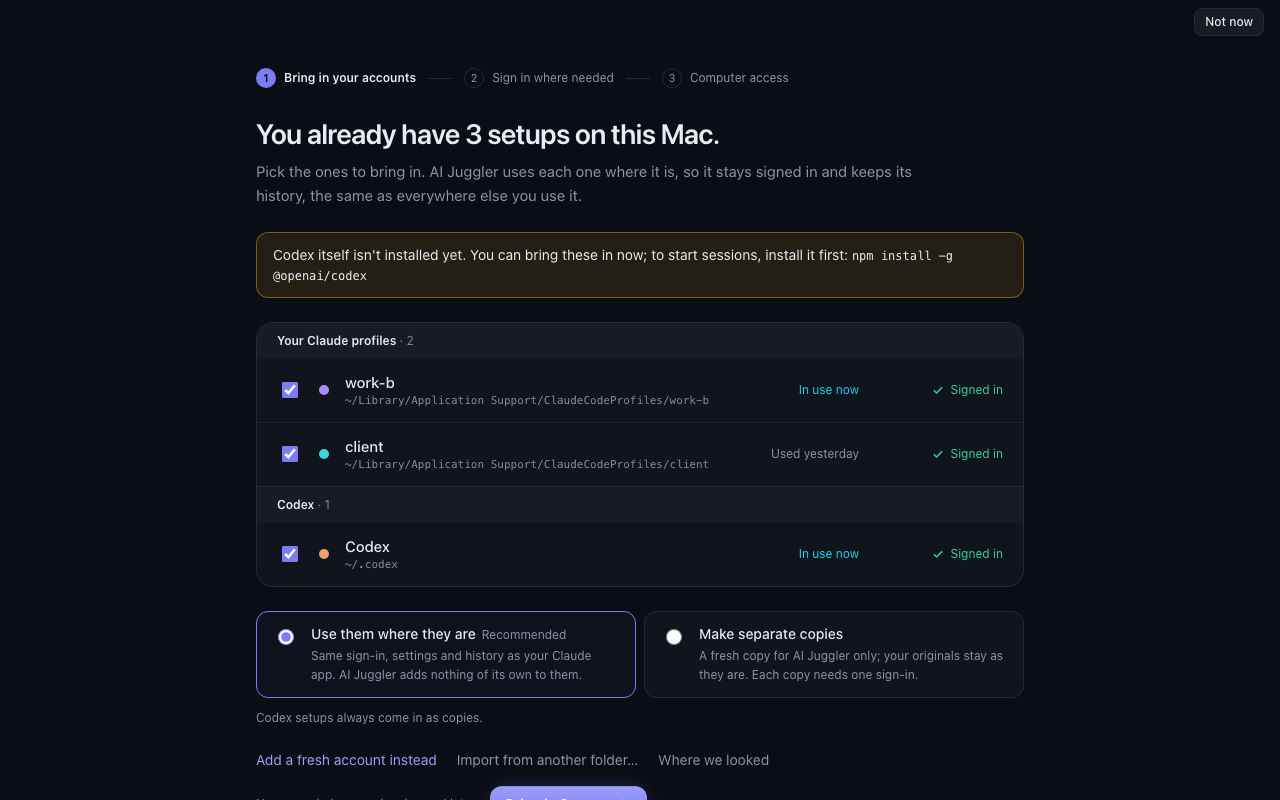
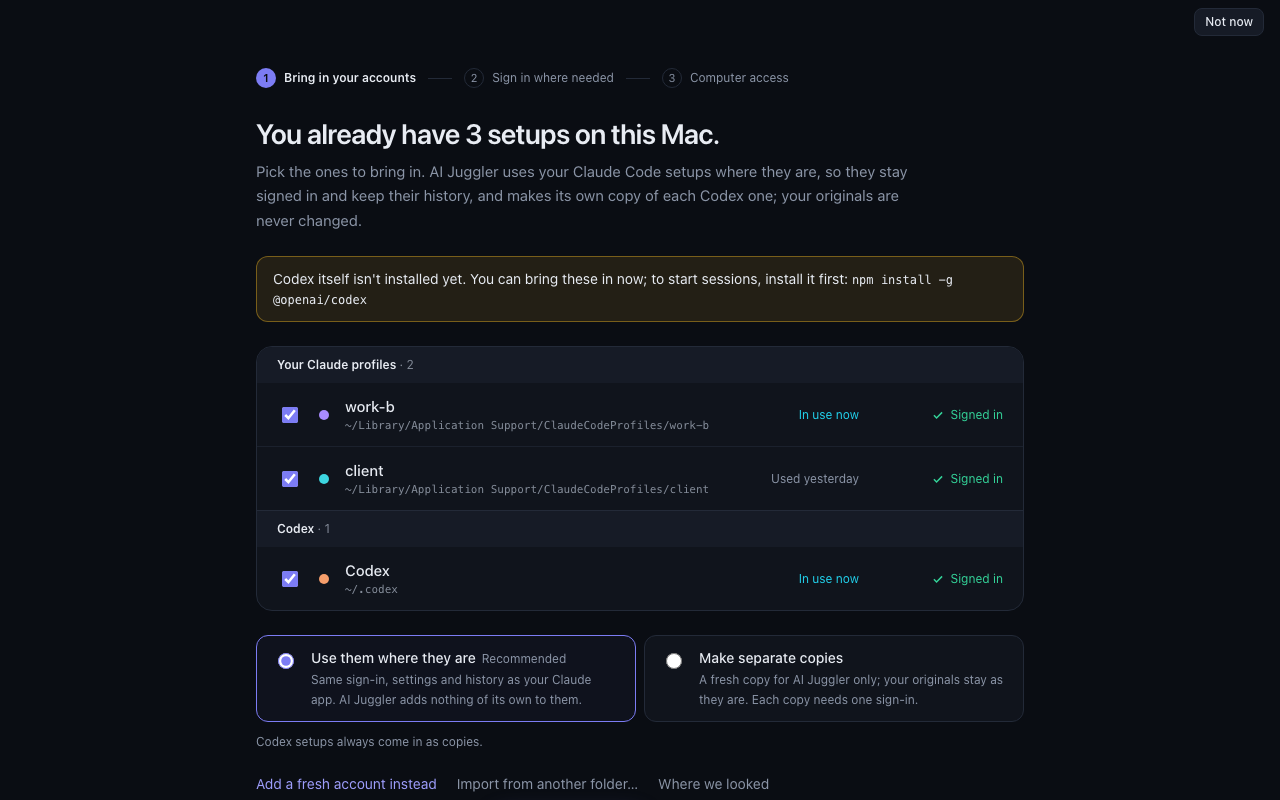
fix(e13/AJ-E1301): #66 review — placement only with a Claude row, the right tool's install note, one Codex sign-in wording
- The "use them where they are" choice (and its default) needs a Claude
  Code setup on the list; a Codex-only first run says copies throughout.
  A mixed list's subtitle says Claude setups stay where they are and
  Codex ones are copied.
- The Claude Code not-installed note no longer sits over Codex rows.
- A Codex account's sign-in reads "Codex's own sign-in (OpenAI)" on
  First run, Home and Accounts (ownSignIn).
- Tests: a failed Codex copy has no 'where it is' retry and Try again
  stays a copy; a Codex-only first run offers no placement choice.

diff --git a/ui/src/screens/FirstRun.tsx b/ui/src/screens/FirstRun.tsx
@@ -32,7 +32,7 @@
  */
 import { useCallback, useEffect, useMemo, useRef, useState, type JSX } from "react";
 import { Button } from "../components/primitives";
-import { providerDisplayName } from "../lib/providers";
+import { ownSignIn, providerDisplayName } from "../lib/providers";
 import { funnelEvent, funnelStep, reasonCode } from "../lib/funnel";
 import {
   accountImport,
@@ -282,6 +282,9 @@ function FoundStep({
   );
   // Named by Provider when they are all one kind; mixed, just "setups".
   const codexCount = installs.filter((found) => found.harness === "codex").length;
+  const claudeCount = installs.filter((found) => found.harness === "claude-code").length;
+  // Rows of the chosen tool itself (its "not installed" note covers these).
+  const ownCount = installs.filter((found) => found.harness === provider).length;
   // Codex's install row: the chosen tool's when adding Codex, else the
   // one that rides along on first run.
   const codexRow = provider === "codex" ? cli : codexCli;
@@ -308,9 +311,12 @@ function FoundStep({
   const [showLooked, setShowLooked] = useState(false);
 
   // ADR-0018: only a tool whose adapter can use a folder where it is
-  // offers it (Codex comes in as a copy until its adapter can).
-  const canInPlace = provider === "claude-code";
-  const [placement, setPlacement] = useState<Placement>(canInPlace ? "in_place" : "copy");
+  // offers it (Codex comes in as a copy until its adapter can) — and only
+  // when one of its setups is on the list: a Codex-only first run has no
+  // choice to make.
+  const canInPlace = provider === "claude-code" && claudeCount > 0;
+  const [chosenPlacement, setPlacement] = useState<Placement>("in_place");
+  const placement: Placement = canInPlace ? chosenPlacement : "copy";
   // A failed copy can be retried "where it is" on its own.
   const [rowPlacement, setRowPlacement] = useState<Record<string, Placement>>({});
   // Only Claude Code setups can be used where they are; a Codex row in
@@ -418,10 +424,12 @@ function FoundStep({
         </h1>
         <p className="max-w-2xl text-[15px] leading-relaxed text-muted">
           {installs.length === 0
-            ? `Add your first account and AI Juggler sets it up in its own folder. You'll sign in with ${toolName}'s own sign-in.`
-            : placement === "in_place"
-              ? "Pick the ones to bring in. AI Juggler uses each one where it is, so it stays signed in and keeps its history, the same as everywhere else you use it."
-              : "Pick the ones to bring in. AI Juggler makes its own copy of each; your originals are never changed, and you can keep using them as before."}
+            ? `Add your first account and AI Juggler sets it up in its own folder. You'll sign in with ${ownSignIn(provider)}.`
+            : placement === "in_place" && codexCount > 0
+              ? "Pick the ones to bring in. AI Juggler uses your Claude Code setups where they are, so they stay signed in and keep their history, and makes its own copy of each Codex one; your originals are never changed."
+              : placement === "in_place"
+                ? "Pick the ones to bring in. AI Juggler uses each one where it is, so it stays signed in and keeps its history, the same as everywhere else you use it."
+                : "Pick the ones to bring in. AI Juggler makes its own copy of each; your originals are never changed, and you can keep using them as before."}
         </p>
       </div>
 
@@ -432,9 +440,12 @@ function FoundStep({
         </p>
       )}
 
-      {cli && cli.status === "not_installed" && (
+      {/* The chosen tool's own note — not over rows of another tool (a
+          Codex-only first run has the Codex note above). */}
+      {cli && cli.status === "not_installed" && (ownCount > 0 || installs.length === 0) && (
         <p className="rounded-xl border border-warning/40 bg-warning-soft px-4 py-3 text-sm text-ink" data-testid="first-run-no-cli">
-          {toolName} itself isn't installed yet. You can bring these in now; to start sessions, install it first
+          {toolName} itself isn't installed yet.{" "}
+          {ownCount > 0 ? "You can bring these in now; to start sessions, install it first" : "To start sessions, install it first"}
           {provider === "claude-code" ? (
             <>
               :{" "}<span className="font-mono text-xs">npm install -g @anthropic-ai/claude-code</span>
@@ -846,8 +857,8 @@ function SigninStep({
             // (AJ-E1301): each account opens its own tool's sign-in.
             const tools = [...new Set(queue.map((entry) => entry.provider || provider))];
             return tools.length > 1
-              ? `Each opens its own tool's sign-in (${tools.map((tool) => `${providerDisplayName(tool)}'s`).join(" or ")}), for that account's folder; AI Juggler never sees your password and notices when you're done.`
-              : `Each opens ${providerDisplayName(tools[0] ?? provider)}'s own sign-in, for that account's folder; AI Juggler never sees your password and notices when you're done.`;
+              ? `Each opens its own tool's sign-in — ${tools.map((tool) => (tool === "codex" ? "Codex's (OpenAI)" : `${providerDisplayName(tool)}'s`)).join(" or ")} — for that account's folder; AI Juggler never sees your password and notices when you're done.`
+              : `Each opens ${ownSignIn(tools[0] ?? provider)}, for that account's folder; AI Juggler never sees your password and notices when you're done.`;
           })()}
         </p>
       </div>
@@ -1051,7 +1062,7 @@ function FreshStep({
         <h1 className="text-[28px] font-semibold leading-tight tracking-tight">Add a fresh account.</h1>
         <p className="max-w-2xl text-[15px] leading-relaxed text-muted">
           AI Juggler sets it up in its own folder, apart from anything you already use. Next you sign in with{" "}
-          {toolName}'s own sign-in; AI Juggler never sees your password.
+          {ownSignIn(provider)}; AI Juggler never sees your password.
         </p>
       </div>
       <label className="flex max-w-md flex-col gap-1.5 text-sm font-medium text-ink">

diff --git a/ui/src/screens/first-run.test.tsx b/ui/src/screens/first-run.test.tsx
@@ -667,6 +667,10 @@ describe("AJ-E1301 — Codex setups in first run", () => {
     );
     await findByTestId("first-run-group-codex");
     expect(getByTestId("first-run-codex-copies").textContent).toContain("Codex setups always come in as copies");
+    // The subtitle says which ones are used where they are.
+    expect(getByTestId("first-run-found").textContent).toContain(
+      "uses your Claude Code setups where they are, so they stay signed in and keep their history, and makes its own copy of each Codex one",
+    );
     // Default "where they are": Claude rows in place, the Codex row a copy.
     await act(async () => {
       fireEvent.click(getByTestId("first-run-bring-in"));
@@ -675,7 +679,7 @@ describe("AJ-E1301 — Codex setups in first run", () => {
     expect(codexCall?.[6]).toBe(false);
     expect(spy.mock.calls.some((call) => call[0] === "claude-code" && call[6] === true)).toBe(true);
     const signin = await findByTestId("first-run-signin");
-    expect(signin.textContent).toContain("Codex's own sign-in");
+    expect(signin.textContent).toContain("Codex's own sign-in (OpenAI)");
     spy.mockRestore();
   });
 
@@ -693,7 +697,7 @@ describe("AJ-E1301 — Codex setups in first run", () => {
       fireEvent.click(getByTestId("first-run-bring-in"));
     });
     const signin = await findByTestId("first-run-signin");
-    expect(signin.textContent).toContain("Claude Code's or Codex's");
+    expect(signin.textContent).toContain("Claude Code's or Codex's (OpenAI)");
   });
 
   it("adding for one tool lists only that tool's setups", async () => {
@@ -744,5 +748,59 @@ describe("AJ-E1301 — Codex setups in first run", () => {
     expect(view.getByRole("heading", { level: 1 }).textContent).toBe(
       "You already have a Codex setup on this Mac.",
     );
+  });
+
+  it("a Codex-only first run offers no placement choice and says copies", async () => {
+    w().__AIJ_SCAN_REPORT__ = { ...SCAN, installs: [codex("/Users/you/.codex", "vendor-default")] };
+    // Neither tool installed: only Codex's note, over its own rows.
+    w().__AIJ_PROVIDER_INSTALLS__ = [
+      { provider: "claude-code", display_name: "Claude Code", install_url: null, status: "not_installed", version: null, binary: null, notes: [] },
+      { provider: "codex", display_name: "Codex", install_url: null, status: "not_installed", version: null, binary: null, notes: [] },
+    ];
+    const bridge = await import("../lib/bridge");
+    const spy = vi.spyOn(bridge, "accountImport");
+    const view = render(<FirstRun mode="first-run" onDone={() => null} openLoginTerminal={() => null} />);
+    await view.findByTestId("first-run-group-codex");
+    expect(view.queryByTestId("first-run-placement")).toBeNull();
+    expect(view.queryByTestId("first-run-codex-copies")).toBeNull();
+    const text = view.getByTestId("first-run-found").textContent ?? "";
+    expect(text).toContain("AI Juggler makes its own copy of each; your originals are never changed");
+    expect(text).not.toContain("where it is");
+    expect(await view.findByTestId("first-run-no-codex")).toBeTruthy();
+    expect(view.queryByTestId("first-run-no-cli")).toBeNull();
+    expect(text).not.toContain("Claude Code itself isn't installed");
+    await act(async () => {
+      fireEvent.click(view.getByTestId("first-run-bring-in"));
+    });
+    expect(spy.mock.calls.map((call) => [call[0], call[6]])).toEqual([["codex", false]]);
+    spy.mockRestore();
+  });
+
+  it("a failed Codex copy has no 'where it is' retry, and Try again stays a copy", async () => {
+    w().__AIJ_SCAN_REPORT__ = {
+      ...SCAN,
+      installs: [...SCAN.installs, codex("/Users/you/.codex", "vendor-default")],
+    };
+    w().__AIJ_IMPORT_FAIL_PATHS__ = ["/Users/you/.codex"];
+    const bridge = await import("../lib/bridge");
+    const spy = vi.spyOn(bridge, "accountImport");
+    const { findByTestId, getByTestId, queryByTestId } = render(
+      <FirstRun mode="first-run" onDone={() => null} openLoginTerminal={() => null} />,
+    );
+    await findByTestId("first-run-group-codex");
+    await act(async () => {
+      fireEvent.click(getByTestId("first-run-bring-in"));
+    });
+    const failed = await findByTestId("first-run-failed");
+    expect(failed.textContent).toContain("Codex");
+    expect(queryByTestId("first-run-use-in-place")).toBeNull();
+    expect(failed.textContent).not.toContain("Use it where it is instead");
+    spy.mockClear();
+    w().__AIJ_IMPORT_FAIL_PATHS__ = [];
+    await act(async () => {
+      fireEvent.click(getByTestId("first-run-retry"));
+    });
+    expect(spy.mock.calls.map((call) => [call[0], call[6]])).toEqual([["codex", false]]);
+    spy.mockRestore();
   });
 });

diff --git a/ui/src/screens/Profiles.tsx b/ui/src/screens/Profiles.tsx
@@ -8,7 +8,7 @@ import { BetaMatrix } from "../components/BetaMatrix";
 import { ExpertSetup } from "../components/ExpertSetup";
 import { EnvOverlayEditor } from "../components/EnvOverlayEditor";
 import { AccountRunway, runwayLines } from "../components/AccountRunway";
-import { providerDisplayName } from "../lib/providers";
+import { ownSignIn, providerDisplayName } from "../lib/providers";
 import {
   accountUseOriginal,
   accountsList,
@@ -623,7 +623,7 @@ function LoginModal({
   return (
     <Modal
       title={`Log in · ${account.label}`}
-      subtitle={`${providerDisplayName(account.provider)}'s own sign-in, opened for you — AI Juggler never sees your credentials.`}
+      subtitle={`${ownSignIn(account.provider)}, opened for you — AI Juggler never sees your credentials.`}
       onClose={onClose}
     >
       {/* AJ-E308 Req.3: the ONE shared queue card — no alerts, no

diff --git a/ui/src/screens/Home.tsx b/ui/src/screens/Home.tsx
@@ -448,7 +448,7 @@ export function HomeScreen({
                         <span className="text-xs text-muted" role="status">
                           {signingIn === account.id
                             ? "Finish signing in in the terminal that opened — this clears by itself when you're done."
-                            : `${account.provider === "codex" ? "OpenAI's" : "Claude's"} own sign-in, in a terminal here — about thirty seconds. AI Juggler never sees your password.`}
+                            : `${account.provider === "codex" ? "Codex's own sign-in (OpenAI)" : "Claude's own sign-in"}, in a terminal here — about thirty seconds. AI Juggler never sees your password.`}
                         </span>
                         {signingIn === account.id && signInError && <span className="text-xs text-danger">{signInError}</span>}
                       </span>

diff --git a/ui/src/screens/home.test.tsx b/ui/src/screens/home.test.tsx
@@ -163,7 +163,7 @@ describe("D-25 Home — the screen", () => {
     expect(item.textContent).toContain("Finish signing in in the terminal that opened");
   });
 
-  it("a Codex account's sign-in names OpenAI's own sign-in", () => {
+  it("a Codex account's sign-in names Codex's own sign-in (OpenAI)", () => {
     const accounts = [{ ...ACCOUNTS[0]!, provider: "codex", login_state: "logged_out" }] as AccountInfo[];
     const { getByTestId } = render(
       <HomeScreen
@@ -178,7 +178,7 @@ describe("D-25 Home — the screen", () => {
       />,
     );
     const item = getByTestId("home-signin");
-    expect(item.textContent).toContain("OpenAI's own sign-in");
+    expect(item.textContent).toContain("Codex's own sign-in (OpenAI)");
     expect(item.textContent).not.toContain("Claude's own sign-in");
   });
 

diff --git a/ui/src/lib/providers.ts b/ui/src/lib/providers.ts
@@ -12,3 +12,12 @@ const NAMES: Record<string, string> = {
 export function providerDisplayName(id: string): string {
   return NAMES[id] ?? id;
 }
+
+/**
+ * The first mention of a Provider's own sign-in on a surface. Codex names
+ * its vendor once ("Codex's own sign-in (OpenAI)"); later mentions on the
+ * same surface say just "Codex's".
+ */
+export function ownSignIn(id: string): string {
+  return id === "codex" ? "Codex's own sign-in (OpenAI)" : `${providerDisplayName(id)}'s own sign-in`;
+}

diff --git a/CHANGELOG.md b/CHANGELOG.md
@@ -263,9 +263,12 @@ and this project adheres to [Semantic Versioning](https://semver.org/spec/v2.0.0
 - First run and Add accounts list the Codex setups found on this Mac in
   their own **Codex** group, beside the Claude ones, and say when the
   Codex CLI still needs installing (AJ-E1301). Machines with only Claude
-  setups see the screen exactly as before. Sign-in steps (First run and
-  Home) name the right vendor's sign-in for a Codex account — OpenAI's,
-  not Claude's.
+  setups see the screen exactly as before. Codex setups always come in
+  as copies: the "use them where they are" choice shows only when a
+  Claude Code setup is on the list, and a Codex-only first run says
+  copies throughout. Sign-in steps (First run, Home and Accounts) name a
+  Codex account's sign-in the same way everywhere: "Codex's own sign-in
+  (OpenAI)".
 
 ### Added (M0-1)
 
